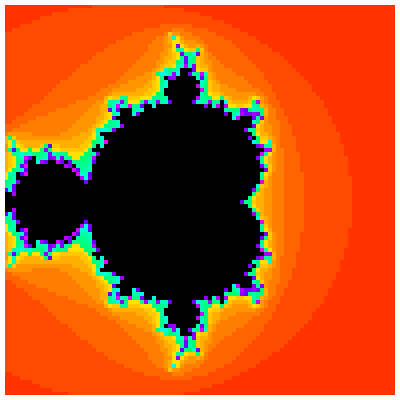
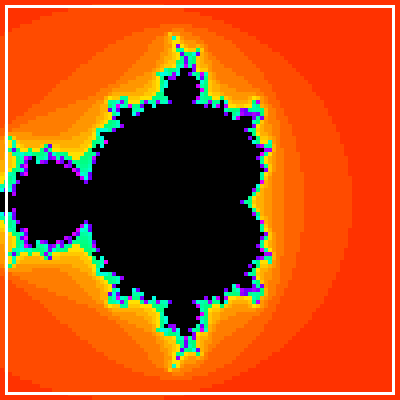
Implement stroke style for shapes in pure Dart canvas
- Enhanced the drawing functionality in the _PureDartPicture class to support both fill and stroke styles for circles and rectangles.
- Updated the canvas test to verify the new stroke implementation and added a new test for drawing individual 1x1 pixel dots in various colors.
- Improved visibility of the frame in the test by switching from fill to stroke style.

Changed region(s): [[0.0, 0.0, 1.0, 1.0]]

diff --git a/lib/pure_dart_implementations.dart b/lib/pure_dart_implementations.dart
@@ -744,19 +744,47 @@ class _PureDartPicture implements Picture {
     final right = math.min(width, (centerX + radius).round());
     final bottom = math.min(height, (centerY + radius).round());
 
-    for (int y = top; y < bottom; y++) {
-      for (int x = left; x < right; x++) {
-        final dx = x - centerX;
-        final dy = y - centerY;
-        final distanceSquared = dx * dx + dy * dy;
+    if (paint.style == PaintingStyle.fill) {
+      // Fill the entire circle
+      for (int y = top; y < bottom; y++) {
+        for (int x = left; x < right; x++) {
+          final dx = x - centerX;
+          final dy = y - centerY;
+          final distanceSquared = dx * dx + dy * dy;
 
-        if (distanceSquared <= radiusSquared) {
-          final index = (y * width + x) * 4;
-          if (index >= 0 && index < pixels.length - 3) {
-            pixels[index] = r;
-            pixels[index + 1] = g;
-            pixels[index + 2] = b;
-            pixels[index + 3] = a;
+          if (distanceSquared <= radiusSquared) {
+            final index = (y * width + x) * 4;
+            if (index >= 0 && index < pixels.length - 3) {
+              pixels[index] = r;
+              pixels[index + 1] = g;
+              pixels[index + 2] = b;
+              pixels[index + 3] = a;
+            }
+          }
+        }
+      }
+    } else if (paint.style == PaintingStyle.stroke) {
+      // Draw only the circle border
+      final strokeWidth = math.max(1, paint.strokeWidth.round());
+      final innerRadiusSquared =
+          math.max(0, (radius - strokeWidth) * (radius - strokeWidth));
+
+      for (int y = top; y < bottom; y++) {
+        for (int x = left; x < right; x++) {
+          final dx = x - centerX;
+          final dy = y - centerY;
+          final distanceSquared = dx * dx + dy * dy;
+
+          // Point is in the stroke area if it's within the outer circle but outside the inner circle
+          if (distanceSquared <= radiusSquared &&
+              distanceSquared >= innerRadiusSquared) {
+            final index = (y * width + x) * 4;
+            if (index >= 0 && index < pixels.length - 3) {
+              pixels[index] = r;
+              pixels[index + 1] = g;
+              pixels[index + 2] = b;
+              pixels[index + 3] = a;
+            }
           }
         }
       }
@@ -829,14 +857,72 @@ class _PureDartPicture implements Picture {
     final right = math.min(width, rect.right.round());
     final bottom = math.min(height, rect.bottom.round());
 
-    for (int y = top; y < bottom; y++) {
-      for (int x = left; x < right; x++) {
-        final index = (y * width + x) * 4;
-        if (index >= 0 && index < pixels.length - 3) {
-          pixels[index] = r;
-          pixels[index + 1] = g;
-          pixels[index + 2] = b;
-          pixels[index + 3] = a;
+    if (paint.style == PaintingStyle.fill) {
+      // Fill the entire rectangle
+      for (int y = top; y < bottom; y++) {
+        for (int x = left; x < right; x++) {
+          final index = (y * width + x) * 4;
+          if (index >= 0 && index < pixels.length - 3) {
+            pixels[index] = r;
+            pixels[index + 1] = g;
+            pixels[index + 2] = b;
+            pixels[index + 3] = a;
+          }
+        }
+      }
+    } else if (paint.style == PaintingStyle.stroke) {
+      // Draw only the border
+      final strokeWidth = math.max(1, paint.strokeWidth.round());
+
+      // Top border
+      for (int y = top; y < math.min(top + strokeWidth, bottom); y++) {
+        for (int x = left; x < right; x++) {
+          final index = (y * width + x) * 4;
+          if (index >= 0 && index < pixels.length - 3) {
+            pixels[index] = r;
+            pixels[index + 1] = g;
+            pixels[index + 2] = b;
+            pixels[index + 3] = a;
+          }
+        }
+      }
+
+      // Bottom border
+      for (int y = math.max(bottom - strokeWidth, top); y < bottom; y++) {
+        for (int x = left; x < right; x++) {
+          final index = (y * width + x) * 4;
+          if (index >= 0 && index < pixels.length - 3) {
+            pixels[index] = r;
+            pixels[index + 1] = g;
+            pixels[index + 2] = b;
+            pixels[index + 3] = a;
+          }
+        }
+      }
+
+      // Left border
+      for (int y = top; y < bottom; y++) {
+        for (int x = left; x < math.min(left + strokeWidth, right); x++) {
+          final index = (y * width + x) * 4;
+          if (index >= 0 && index < pixels.length - 3) {
+            pixels[index] = r;
+            pixels[index + 1] = g;
+            pixels[index + 2] = b;
+            pixels[index + 3] = a;
+          }
+        }
+      }
+
+      // Right border
+      for (int y = top; y < bottom; y++) {
+        for (int x = math.max(right - strokeWidth, left); x < right; x++) {
+          final index = (y * width + x) * 4;
+          if (index >= 0 && index < pixels.length - 3) {
+            pixels[index] = r;
+            pixels[index + 1] = g;
+            pixels[index + 2] = b;
+            pixels[index + 3] = a;
+          }
         }
       }
     }

diff --git a/test/complex_canvas_test.dart b/test/complex_canvas_test.dart
@@ -293,18 +293,12 @@ void main() {
         }
       }
 
-      // Add frame - use fill instead of stroke for better visibility
+      // Add frame - test the improved stroke implementation
       final framePaint = ui.Paint()
         ..color = const ui.Color(0xFFFFFFFF)
-        ..style = ui.PaintingStyle.fill;
-
-      // Draw frame as separate rectangles
-      canvas.drawRect(const ui.Rect.fromLTWH(0, 0, 400, 5), framePaint); // Top
-      canvas.drawRect(
-          const ui.Rect.fromLTWH(0, 395, 400, 5), framePaint); // Bottom
-      canvas.drawRect(const ui.Rect.fromLTWH(0, 0, 5, 400), framePaint); // Left
-      canvas.drawRect(
-          const ui.Rect.fromLTWH(395, 0, 5, 400), framePaint); // Right
+        ..style = ui.PaintingStyle.stroke
+        ..strokeWidth = 3.0;
+      canvas.drawRect(const ui.Rect.fromLTWH(5, 5, 390, 390), framePaint);
 
       final picture = recorder.endRecording();
       final image = await picture.toImage(400, 400);
@@ -352,6 +346,48 @@ void main() {
       await file.writeAsBytes(byteData!.buffer.asUint8List());
 
       print('Debug color test saved: ${file.path}');
+    });
+
+    test('Debug - 1x1 pixel test', () async {
+      final recorder = ui.PictureRecorder();
+      final canvas =
+          ui.Canvas(recorder, const ui.Rect.fromLTWH(0, 0, 100, 100));
+
+      // Fill background with black
+      final bgPaint = ui.Paint()
+        ..color = const ui.Color(0xFF000000)
+        ..style = ui.PaintingStyle.fill;
+      canvas.drawRect(const ui.Rect.fromLTWH(0, 0, 100, 100), bgPaint);
+
+      // Draw individual 1x1 pixel dots in different colors
+      final colors = [
+        const ui.Color(0xFFFF0000), // Red
+        const ui.Color(0xFF00FF00), // Green
+        const ui.Color(0xFF0000FF), // Blue
+        const ui.Color(0xFFFFFFFF), // White
+      ];
+
+      for (int i = 0; i < colors.length; i++) {
+        final paint = ui.Paint()
+          ..color = colors[i]
+          ..style = ui.PaintingStyle.fill;
+
+        // Draw 1x1 pixel rectangles
+        for (int j = 0; j < 20; j++) {
+          final x = 10 + (i * 20) + (j % 5) * 2.0;
+          final y = 10 + (j ~/ 5) * 2.0;
+          canvas.drawRect(ui.Rect.fromLTWH(x, y, 1, 1), paint);
+        }
+      }
+
+      final picture = recorder.endRecording();
+      final image = await picture.toImage(100, 100);
+
+      final byteData = await image.toByteData(format: ui.ImageByteFormat.png);
+      final file = File('test_output/pixel_test.png');
+      await file.writeAsBytes(byteData!.buffer.asUint8List());
+
+      print('1x1 pixel test saved: ${file.path}');
     });
 
     test('Performance test - Many small elements', () async {
